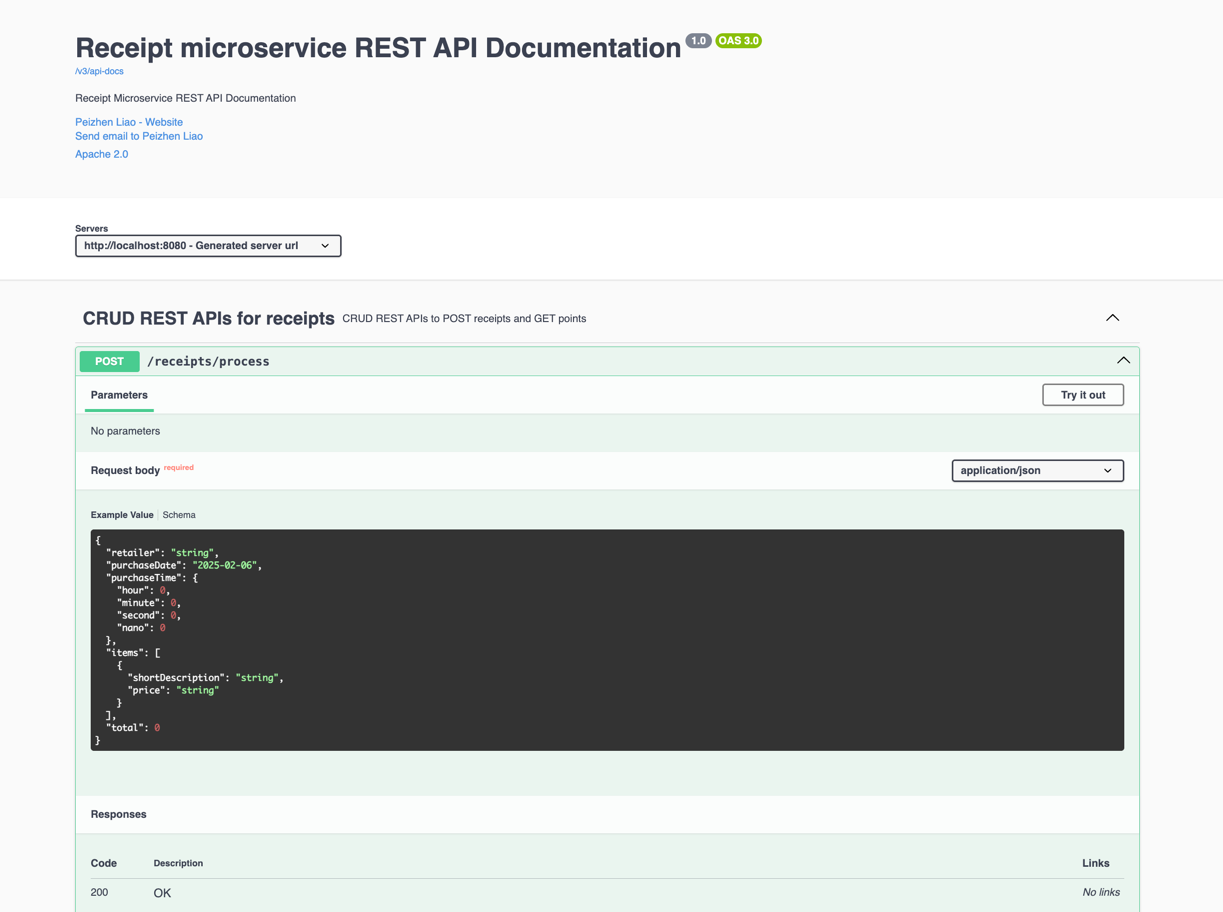
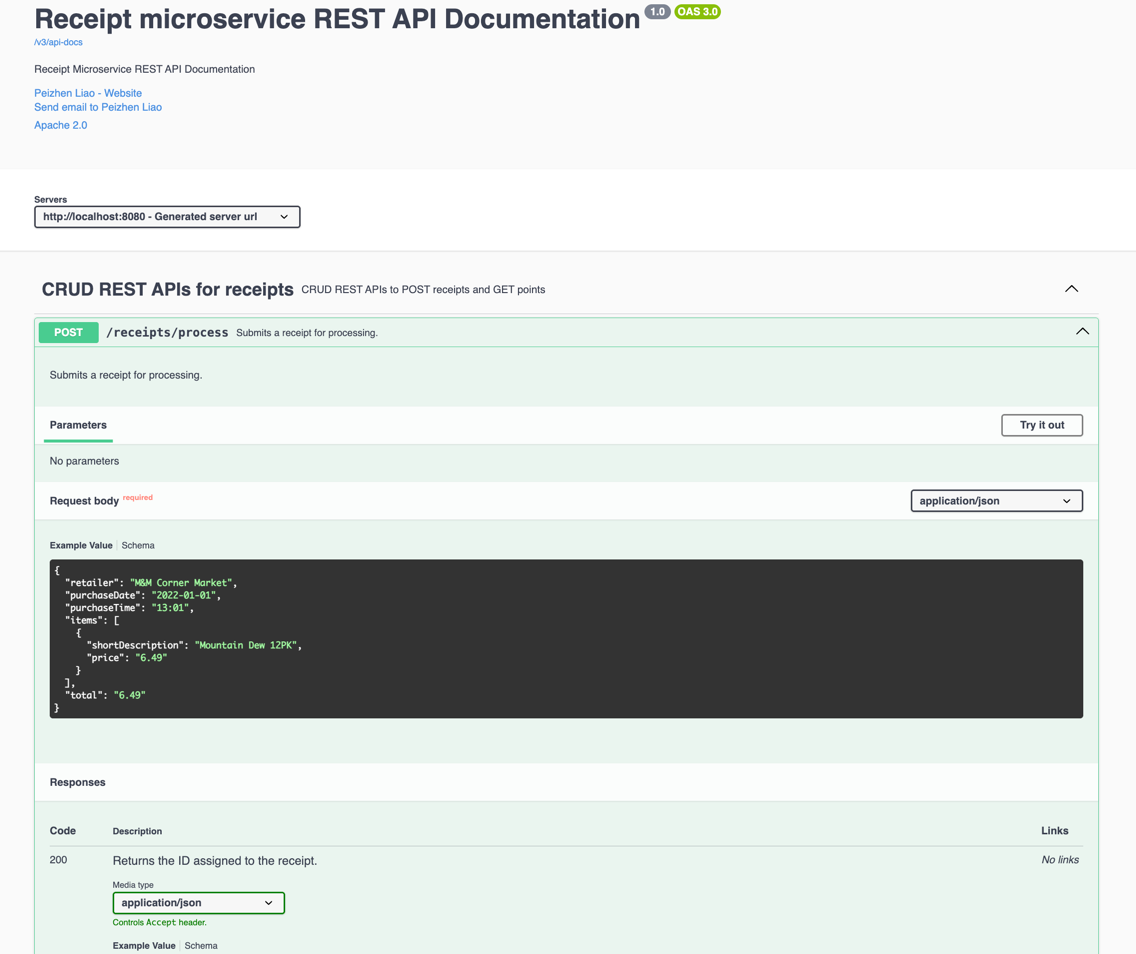
bug-fix

diff --git a/receipt/src/main/java/com/fetch/receipt/controller/ReceiptsController.java b/receipt/src/main/java/com/fetch/receipt/controller/ReceiptsController.java
@@ -3,13 +3,16 @@ package com.fetch.receipt.controller;
 import com.fetch.receipt.dto.PointsResponseDto;
 import com.fetch.receipt.dto.ReceiptDto;
 import com.fetch.receipt.dto.ResponseDto;
-import com.fetch.receipt.exception.ResourceNotFoundException;
 import com.fetch.receipt.service.IReceiptsService;
+import io.swagger.v3.oas.annotations.Operation;
+import io.swagger.v3.oas.annotations.responses.ApiResponse;
 import io.swagger.v3.oas.annotations.tags.Tag;
+import jakarta.validation.Valid;
 import lombok.AllArgsConstructor;
 import org.springframework.http.HttpStatus;
 import org.springframework.http.MediaType;
 import org.springframework.http.ResponseEntity;
+import org.springframework.validation.annotation.Validated;
 import org.springframework.web.bind.annotation.*;
 
 @Tag(
@@ -20,17 +23,42 @@ import org.springframework.web.bind.annotation.*;
 @RestController
 @RequestMapping(path="/receipts", produces = {MediaType.APPLICATION_JSON_VALUE})
 @AllArgsConstructor
+@Validated
 public class ReceiptsController {
 
     private IReceiptsService iReceiptsService;
+    @Operation(
+            summary = "Submits a receipt for processing.",
+            description = "Submits a receipt for processing."
+    )
+    @ApiResponse(
+            responseCode = "200",
+            description = "Returns the ID assigned to the receipt."
+    )
+    @ApiResponse(
+            responseCode = "400",
+            description = "HTTP Status BAD REQUEST"
+    )
     @PostMapping("/process")
-    public ResponseEntity<ResponseDto> processReceipt(@RequestBody ReceiptDto receiptDto) {
+    public ResponseEntity<ResponseDto> processReceipt(@Valid @RequestBody ReceiptDto receiptDto) {
         String id = iReceiptsService.createReceipt(receiptDto);
         return ResponseEntity
-                .status(HttpStatus.CREATED)
+                .status(HttpStatus.OK)
                 .body(new ResponseDto(id));
     }
 
+    @Operation(
+            summary = "Returns the points awarded for the receipt.",
+            description = "Returns the points awarded for the receipt."
+    )
+    @ApiResponse(
+            responseCode = "200",
+            description = "The number of points awarded."
+    )
+    @ApiResponse(
+            responseCode = "400",
+            description = "HTTP Status BAD REQUEST"
+    )
     @GetMapping("/{id}/points")
     public ResponseEntity<PointsResponseDto> getReceiptPoints(@PathVariable String id){
         double points = iReceiptsService.getPoints(id);

diff --git a/receipt/src/main/java/com/fetch/receipt/dto/ReceiptDto.java b/receipt/src/main/java/com/fetch/receipt/dto/ReceiptDto.java
@@ -1,5 +1,9 @@
 package com.fetch.receipt.dto;
 
+import io.swagger.v3.oas.annotations.media.Schema;
+import jakarta.validation.constraints.NotEmpty;
+import jakarta.validation.constraints.Pattern;
+import jakarta.validation.constraints.Size;
 import lombok.Data;
 
 import java.time.LocalDate;
@@ -7,11 +11,47 @@ import java.time.LocalTime;
 import java.util.List;
 
 @Data
+@Schema(
+        name = "Receipt",
+        description = "Schema to hold Receipt details"
+)
 public class ReceiptDto {
+    @NotEmpty(message = "Retailer can not be null or empty")
+    @Pattern(regexp = "^[\\w\\s\\-&]+$")
+    @Schema(
+        description = "The name of the retailer or store the receipt is from.",
+        example = "M&M Corner Market"
+    )
     private String retailer;
-    private LocalDate purchaseDate;
-    private LocalTime purchaseTime;
+
+    @NotEmpty(message = "Purchase date can not be null or empty")
+    @Pattern(regexp = "^\\d{4}-(?:0[1-9]|1[0-2])-(?:0[1-9]|[12]\\d|3[01])$",
+            message = "Purchase date must be in YYYY-MM-DD format")
+    @Schema(
+            description = "The date of the purchase printed on the receipt.",
+            example = "2022-01-01"
+    )
+    private String purchaseDate;
+
+    @NotEmpty(message = "Purchase time can not be null or empty")
+    @Pattern(regexp = "^(?:[01]\\d|2[0-3]):[0-5]\\d$",
+            message = "Purchase time must be in 24-hour HH:mm format")
+    @Schema(
+            description = "The time of the purchase printed on the receipt. 24-hour time expected.",
+            example = "13:01"
+    )
+    private String purchaseTime;
+
+    @NotEmpty(message = "items can not be null or empty")
+    @Size(min = 1, message = "Must have at least one item")
     private List<ItemDto> items;
-    private Double total;
-//    private Double points;
+
+    @NotEmpty(message = "Total can not be null or empty")
+    @Pattern(regexp = "^\\d+\\.\\d{2}$", message = "Total must be in format 0.00")
+    @Schema(
+            description = "The total amount paid on the receipt.",
+            example = "6.49"
+    )
+    private String total;
+
 }

diff --git a/receipt/src/main/java/com/fetch/receipt/utils/ItemsConverter.java b/receipt/src/main/java/com/fetch/receipt/utils/ItemsConverter.java
@@ -3,8 +3,8 @@ package com.fetch.receipt.utils;
 import com.fasterxml.jackson.core.JsonProcessingException;
 import com.fasterxml.jackson.core.type.TypeReference;
 import com.fasterxml.jackson.databind.ObjectMapper;
+import com.fetch.receipt.exception.BadRequestException;
 import jakarta.persistence.AttributeConverter;
-import com.fetch.receipt.exception.JsonParseException;
 import jakarta.persistence.Converter;
 import com.fetch.receipt.dto.ItemDto;
 import java.util.List;
@@ -18,7 +18,7 @@ public class ItemsConverter implements AttributeConverter<List<ItemDto>, String>
         try {
             return objectMapper.writeValueAsString(items);
         } catch (JsonProcessingException e) {
-            throw new JsonParseException("Error converting items to JSON");
+            throw new BadRequestException("The receipt is invalid. Please verify input");
         }
     }
 
@@ -30,7 +30,7 @@ public class ItemsConverter implements AttributeConverter<List<ItemDto>, String>
             }
             return objectMapper.readValue(json, new TypeReference<List<ItemDto>>() {});
         } catch (JsonProcessingException e) {
-            throw new JsonParseException("Error converting JSON to items");
+            throw new BadRequestException("The receipt is invalid. Please verify input");
         }
     }
 }

diff --git a/receipt/src/main/java/com/fetch/receipt/exception/GlobalExceptionHandler.java b/receipt/src/main/java/com/fetch/receipt/exception/GlobalExceptionHandler.java
@@ -27,9 +27,22 @@ public class GlobalExceptionHandler {
         return new ResponseEntity<>(errorResponseDto, HttpStatus.BAD_REQUEST);
     }
 
-    @ExceptionHandler(ResourceNotFoundException.class)
-    public ResponseEntity<ErrorResponseDto> handleResourceNotFoundException(ReceiptAlreadyExistsException ex,
+    @ExceptionHandler(BadRequestException.class)
+    public ResponseEntity<ErrorResponseDto> handleBadRequestException(BadRequestException ex,
                                                                                 WebRequest  request) {
+        ErrorResponseDto errorResponseDto = new ErrorResponseDto(
+                request.getDescription(false),
+                HttpStatus.BAD_REQUEST,
+                ex.getMessage(),
+                LocalDateTime.now()
+        );
+
+        return new ResponseEntity<>(errorResponseDto, HttpStatus.BAD_REQUEST);
+    }
+
+    @ExceptionHandler(ResourceNotFoundException.class)
+    public ResponseEntity<ErrorResponseDto> handleResourceNotFoundException(ResourceNotFoundException ex,
+                                                                            WebRequest  request) {
         ErrorResponseDto errorResponseDto = new ErrorResponseDto(
                 request.getDescription(false),
                 HttpStatus.NOT_FOUND,

diff --git a/receipt/src/main/java/com/fetch/receipt/service/impl/ReceiptsServiceImpl.java b/receipt/src/main/java/com/fetch/receipt/service/impl/ReceiptsServiceImpl.java
@@ -55,7 +55,7 @@ public class ReceiptsServiceImpl implements IReceiptsService {
     @Override
     public double getPoints(String id) {
         Receipt receipt = receiptRepository.findByReceiptId(id).orElseThrow(
-                () -> new ResourceNotFoundException("Receipt", "id", id)
+                () -> new ResourceNotFoundException(id)
         );
         return receipt.getPoints();
     }
@@ -68,9 +68,9 @@ public class ReceiptsServiceImpl implements IReceiptsService {
     public double calculatePoints(ReceiptDto receiptDto){
 
         String retailer = receiptDto.getRetailer();
-        double total = receiptDto.getTotal();
-        LocalDate purchase_date = receiptDto.getPurchaseDate();
-        LocalTime purchase_time = receiptDto.getPurchaseTime();
+        String total = receiptDto.getTotal();
+        LocalDate purchase_date = LocalDate.parse(receiptDto.getPurchaseDate());
+        LocalTime purchase_time = LocalTime.parse(receiptDto.getPurchaseTime());
         List<ItemDto> items_list= receiptDto.getItems();
 
         double points = 0;

diff --git a/receipt/src/main/java/com/fetch/receipt/dto/ItemDto.java b/receipt/src/main/java/com/fetch/receipt/dto/ItemDto.java
@@ -1,9 +1,25 @@
 package com.fetch.receipt.dto;
 
+import io.swagger.v3.oas.annotations.media.Schema;
+import jakarta.validation.constraints.NotEmpty;
+import jakarta.validation.constraints.Pattern;
 import lombok.Data;
 
 @Data
 public class ItemDto {
+    @NotEmpty(message = "Retailer can not be null or empty")
+    @Pattern(regexp = "^[\\w\\s\\-&]+$")
+    @Schema(
+            description = "The Short Product Description for the item.",
+            example = "Mountain Dew 12PK"
+    )
     private String shortDescription;
+
+    @NotEmpty(message = "Total can not be null or empty")
+    @Pattern(regexp = "^\\d+\\.\\d{2}$")
+    @Schema(
+            description = "The total price payed for this item.",
+            example = "6.49"
+    )
     private String price;
 }

diff --git a/receipt/src/main/java/com/fetch/receipt/exception/ResourceNotFoundException.java b/receipt/src/main/java/com/fetch/receipt/exception/ResourceNotFoundException.java
@@ -6,7 +6,7 @@ import org.springframework.web.bind.annotation.ResponseStatus;
 @ResponseStatus(value = HttpStatus.NOT_FOUND)
 public class ResourceNotFoundException extends RuntimeException {
 
-    public ResourceNotFoundException(String resourceName, String fieldName, String fieldValue){
-        super(String.format("%s not found with the given input data %s: %s",resourceName, fieldName, fieldValue));
+    public ResourceNotFoundException(String fieldValue){
+        super(String.format("No receipt found for the ID: %s", fieldValue));
     }
 }

diff --git a/receipt/src/main/java/com/fetch/receipt/entity/Receipt.java b/receipt/src/main/java/com/fetch/receipt/entity/Receipt.java
@@ -20,16 +20,16 @@ public class Receipt {
     private String retailer;
 
     @Column(name = "purchase_date")
-    private LocalDate purchaseDate;
+    private String purchaseDate;
 
     @Column(name = "purchase_time")
-    private LocalTime purchaseTime;
+    private String purchaseTime;
 
-    private Double total;
+    private String total;
 
     @Lob //large object
     @Convert(converter = ItemsConverter.class)
     private List<ItemDto> items;
 
-    private Double points;
+    private double points;
 }

diff --git a/receipt/src/main/java/com/fetch/receipt/exception/BadRequestException.java b/receipt/src/main/java/com/fetch/receipt/exception/BadRequestException.java
@@ -4,8 +4,8 @@ import org.springframework.http.HttpStatus;
 import org.springframework.web.bind.annotation.ResponseStatus;
 
 @ResponseStatus(value= HttpStatus.BAD_REQUEST)
-public class JsonParseException extends RuntimeException{
-    public JsonParseException(String message) {
+public class BadRequestException extends RuntimeException{
+    public BadRequestException(String message) {
         super(message);
     }
 }

diff --git a/receipt/src/main/java/com/fetch/receipt/ReceiptApplication.java b/receipt/src/main/java/com/fetch/receipt/ReceiptApplication.java
@@ -25,7 +25,6 @@ import org.springframework.boot.autoconfigure.SpringBootApplication;
 		)
 )
 public class ReceiptApplication {
-
 	public static void main(String[] args) {
 		SpringApplication.run(ReceiptApplication.class, args);
 	}

diff --git a/README.md b/README.md
@@ -31,7 +31,7 @@ This project is a web service that processes receipts and calculates reward poin
 
 ## API Documentation
 
-After running the container, visit [Swagger UI](`http://localhost:8080/swagger-ui/index.html`)
+After running the container, visit [Swagger UI](http://localhost:8080/swagger-ui/index.html)
 for detailed api design
 ![img.png](doc_sample.png)
 
